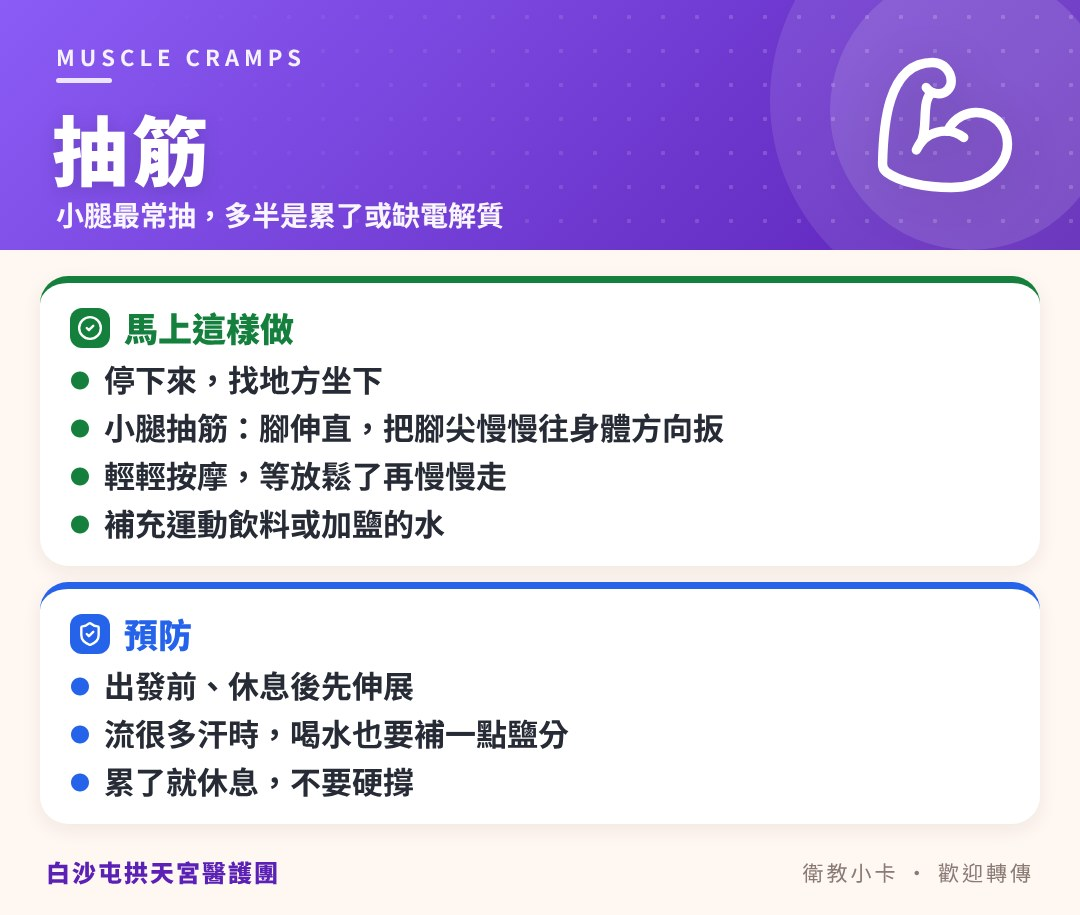
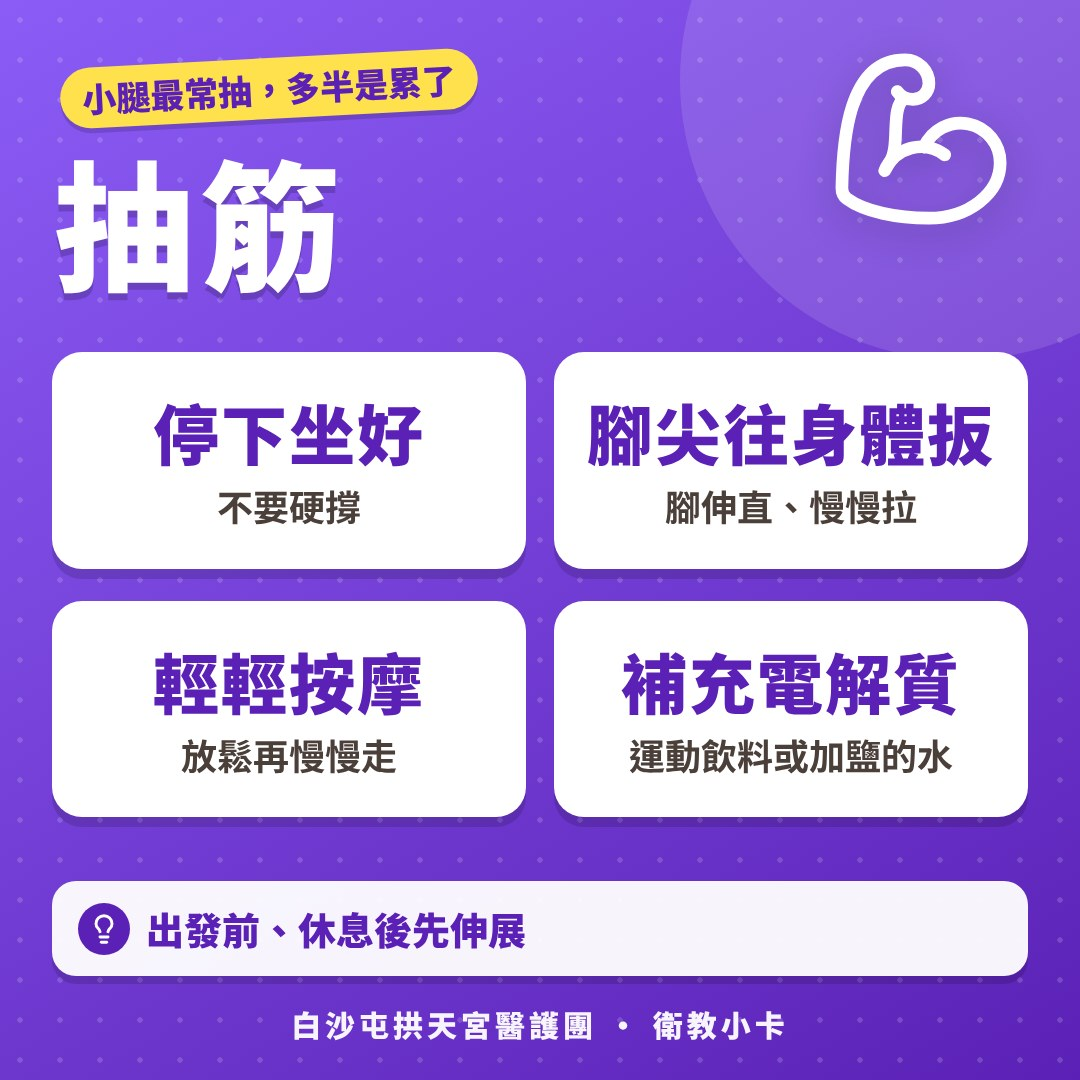
衛教小卡改成正方形海報；分享卡片改中等寬度
Claude-Session: https://claude.ai/code/session_01UgnuMUR9BFixKJirFzAXJh

diff --git a/security/worker.js b/security/worker.js
@@ -557,21 +557,21 @@ async function journeyRoute(req, env, json) {
 }
 const SHARE_LIFF = 'https://liff.line.me/2011820105-x1KU6xLW', OA_URL = 'https://line.me/R/ti/p/@393geitc';
 // 內建衛教小卡（圖在 /richmenu/card-*.jpg，由 scratchpad edu_card.py 產生）
-const EDU_H = { heat: 1311, blister: 1053, cramp: 915, sunburn: 867, sprain: 919, help: 819 };
+const EDU_H = {};   // 衛教小卡都是 1080×1080 正方形
 const EDU_CARDS = Object.fromEntries(EDU.map(e => ['edu-' + e.img, { id: 'edu-' + e.img, builtin: true, w: 1080, h: EDU_H[e.img] || 1350,
-  alt: '衛教小卡：' + e.title, imgUrl: `${SITE}/richmenu/card-${e.img}.jpg?v=2` }]));
+  alt: '衛教小卡：' + e.title, imgUrl: `${SITE}/richmenu/card-${e.img}.jpg?v=3` }]));
 function shareFlex(c, origin) {
   const ratio = Math.min(3, Math.max(1 / 3, (c.w || 1) / (c.h || 1))), W = 1000, H = Math.round(W / ratio);
   const body = [], heroUrl = c.imgUrl || `${origin}/c/${c.id}.jpg`;
   if (c.title) body.push({ type: 'text', text: c.title, weight: 'bold', size: 'lg', color: '#ffffff', wrap: true });
   if (c.text) body.push({ type: 'text', text: c.text, size: 'sm', color: '#ffffffcc', wrap: true, margin: c.title ? 'sm' : 'none', lineSpacing: '4px' });
-  body.push({ type: 'box', layout: 'vertical', backgroundColor: '#ffffff', cornerRadius: '10px', paddingAll: '13px', margin: body.length ? 'lg' : 'none',
+  body.push({ type: 'box', layout: 'vertical', backgroundColor: '#ffffff', cornerRadius: '10px', paddingAll: '11px', margin: body.length ? 'lg' : 'none',
     action: { type: 'uri', label: '看更多', uri: c.url || OA_URL },
-    contents: [{ type: 'text', text: c.btn || '🏥 到白沙屯醫護團 LINE 看更多', weight: 'bold', size: 'md', color: '#1e3a5f', align: 'center', wrap: true }] });
-  body.push({ type: 'text', text: '➦ 分享給親友', size: 'md', color: '#ffffff', align: 'center', margin: 'lg', action: { type: 'uri', label: '分享給親友', uri: `${SHARE_LIFF}?share=${c.id}` } });
-  return { type: 'flex', altText: c.alt || c.title || '白沙屯醫護團', contents: { type: 'bubble', size: 'giga',
+    contents: [{ type: 'text', text: c.btn || '🏥 到白沙屯醫護團 LINE 看更多', weight: 'bold', size: 'sm', color: '#1e3a5f', align: 'center', wrap: true }] });
+  body.push({ type: 'text', text: '➦ 分享給親友', size: 'sm', color: '#ffffff', align: 'center', margin: 'lg', action: { type: 'uri', label: '分享給親友', uri: `${SHARE_LIFF}?share=${c.id}` } });
+  return { type: 'flex', altText: c.alt || c.title || '白沙屯醫護團', contents: { type: 'bubble', size: 'mega',
     hero: { type: 'image', url: heroUrl, size: 'full', aspectMode: 'cover', aspectRatio: `${W}:${H}` },
-    body: { type: 'box', layout: 'vertical', paddingAll: '16px', backgroundColor: '#1e3a5f', contents: body } } };
+    body: { type: 'box', layout: 'vertical', paddingAll: '13px', backgroundColor: '#1e3a5f', contents: body } } };
 }
 // ===== 分享卡片：管理員上傳圖文，團員用 LIFF shareTargetPicker 轉傳給親友／群組 =====
 async function shareCardRoute(req, env, json) {
